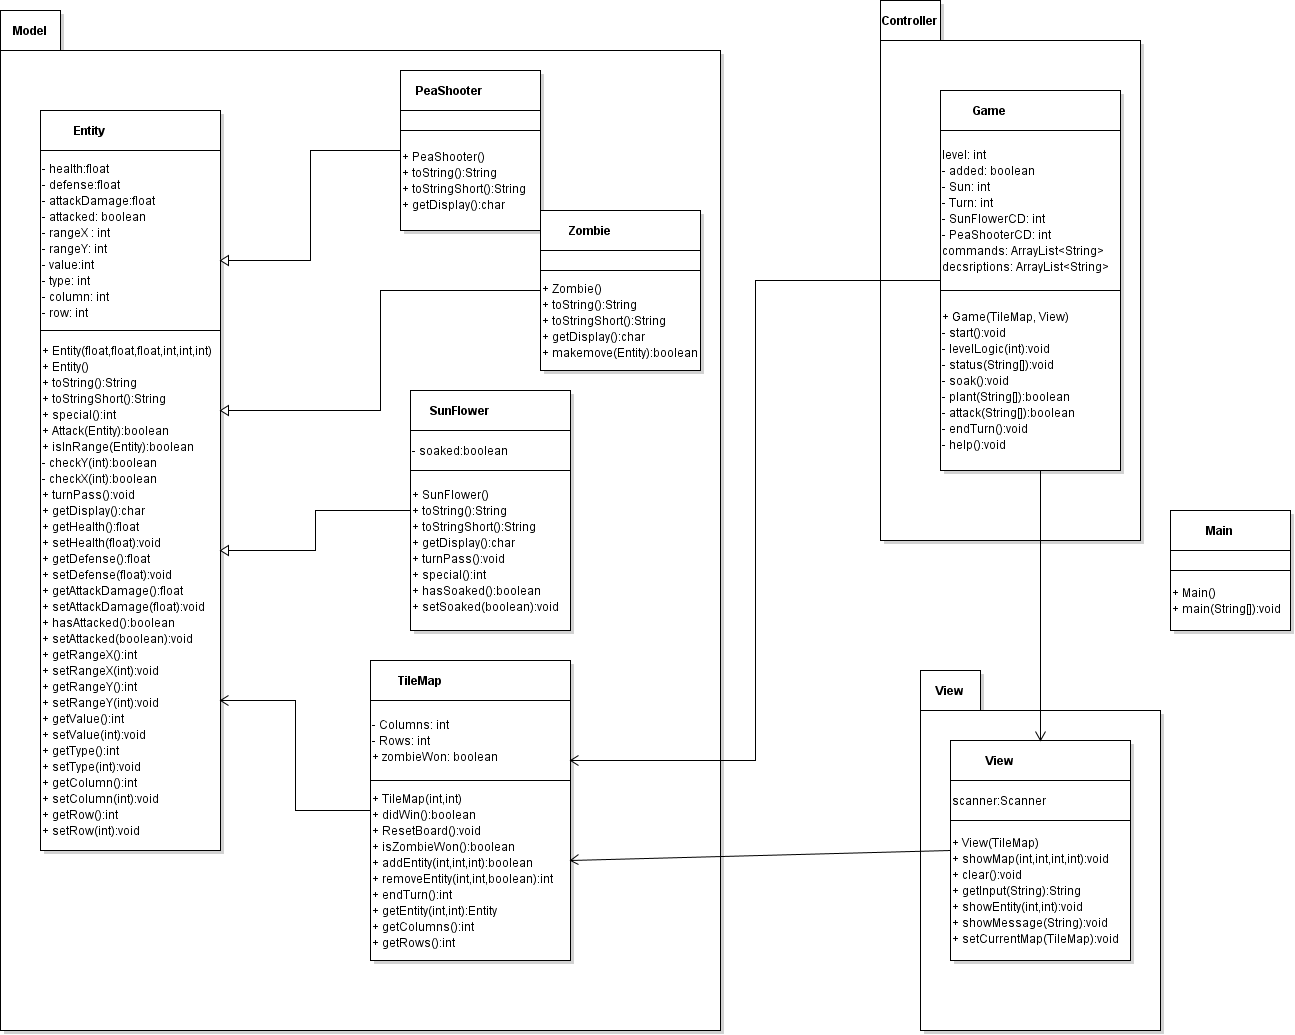
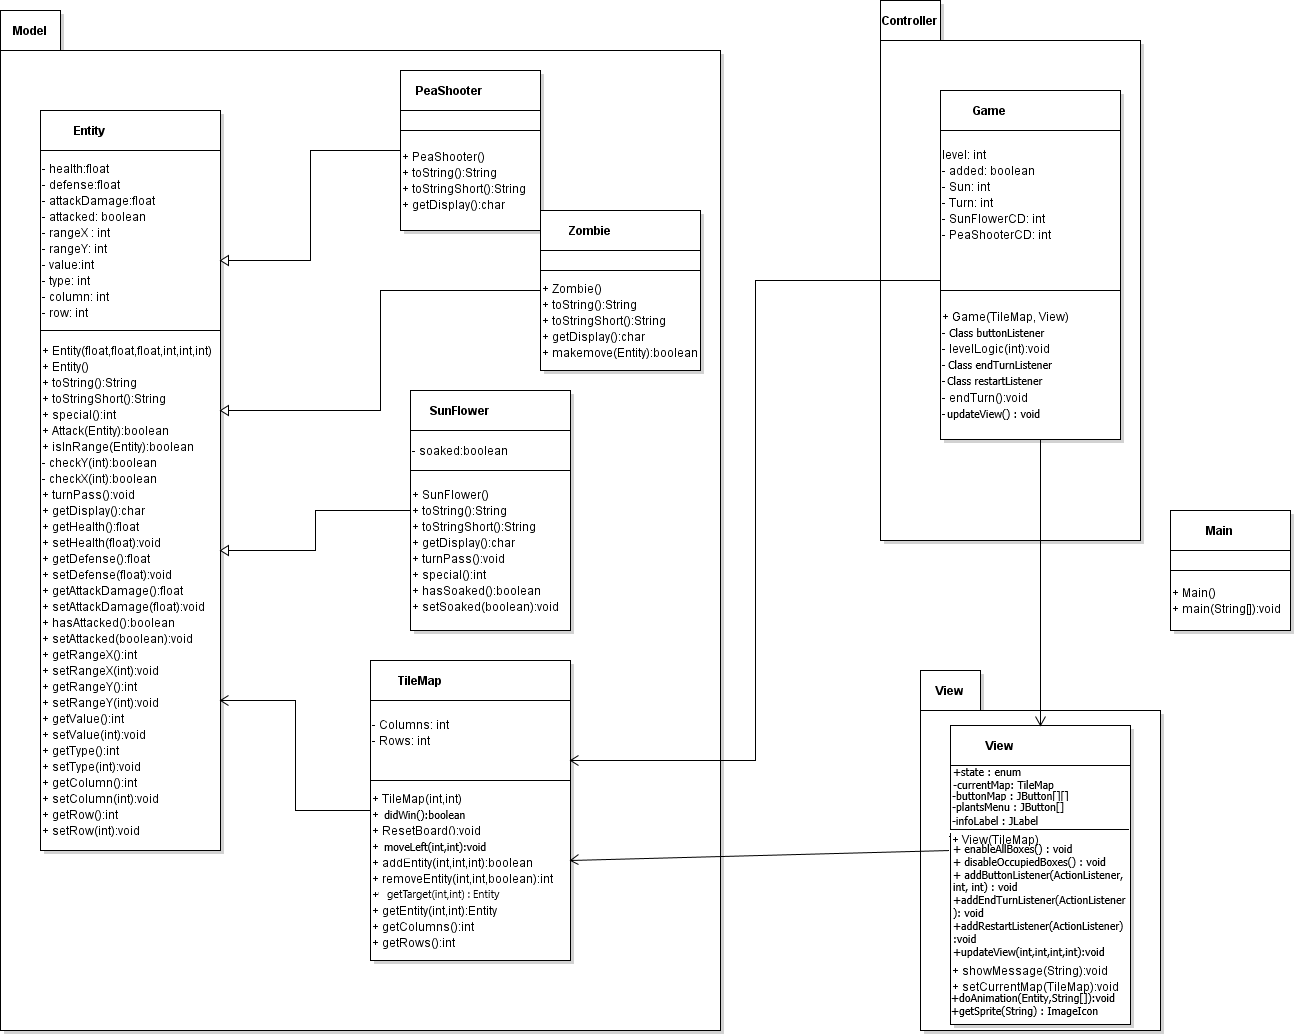
Fixed a bug when sunflowers die the zombie disappeared for a turn, also updated UML with Manel's new one

diff --git a/src/View/View.java b/src/View/View.java
@@ -29,8 +29,6 @@ public class View extends JFrame{
 		viewing, plantingS, plantingP
 	
 	}
-	//A scanner for input and output.
-	Scanner scanner = new Scanner(System.in);
 
 	//Constructor
 	public View(TileMap newMap)
@@ -272,7 +270,7 @@ public class View extends JFrame{
 				}
 				if (target.getHealth() <= 0)
 				{
-					buttonMap[target.getRow()][target.getColumn()].setIcon(getSprite(" "));
+					buttonMap[target.getRow()][target.getColumn()].setIcon(getSprite(currentMap.getEntity(target.getRow(), target.getColumn()).getDisplay()));
 				}
 			}
 		};
